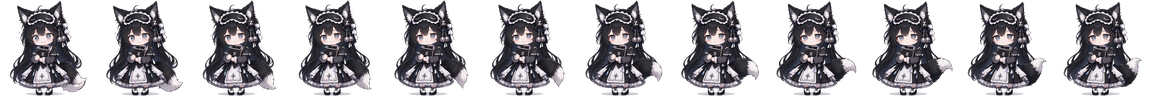
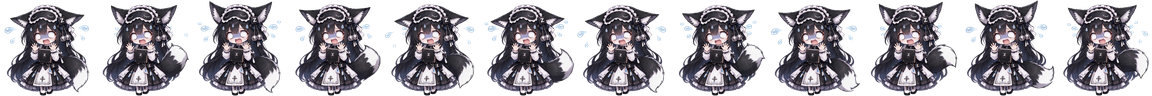
v1.6.5: swap GLM worry animation for the re-generated expressive clip
User re-recorded GLM worry with hands-on-cheeks panic pose and flying
sweat drops (241 frames, far more distinguishable from normal);
anim-zc-worry.png re-packed from GLM-新慌张.mp4 (35%-95% window).
make-sheets.py JOBS updated to the new filename.

diff --git a/tools/make-sheets.py b/tools/make-sheets.py
@@ -14,7 +14,7 @@ JOBS = [
     ("大肥鱼-紧张.mp4", "anim-df-worry.png"),
     ("大肥鱼-呆滞.mp4", "anim-df-daze.png"),
     ("GLM-标准.mp4", "anim-zc-normal.png"),
-    ("GLM-紧张.mp4", "anim-zc-worry.png"),
+    ("GLM-新慌张.mp4", "anim-zc-worry.png"),
     ("GLM-呆滞.mp4", "anim-zc-daze.png"),
 ]
 SIZE = 96
